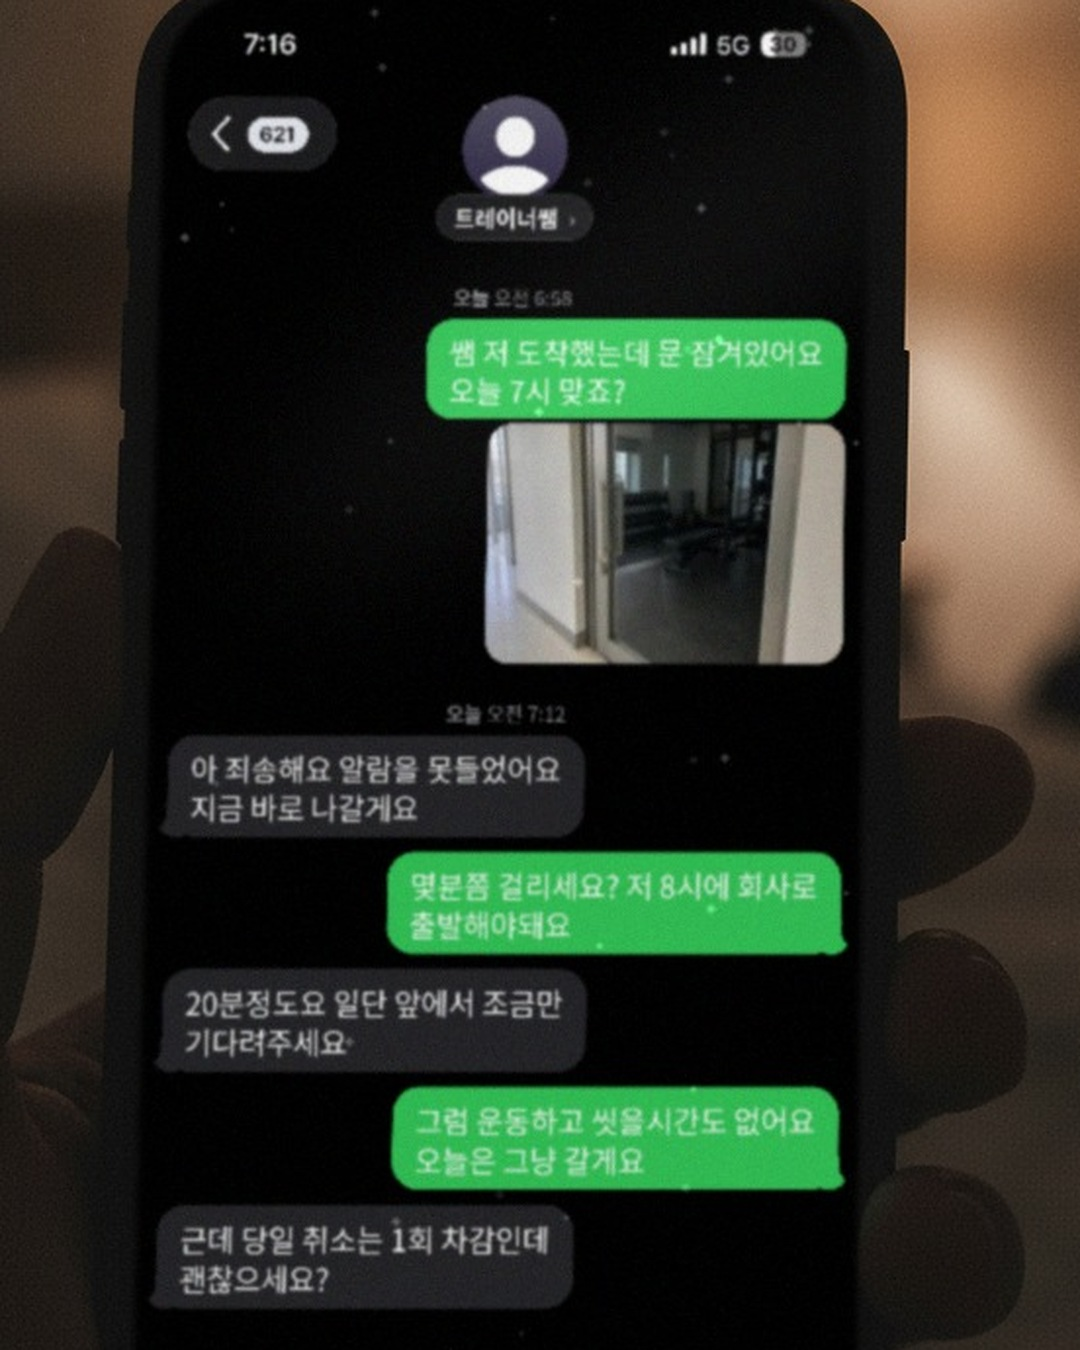
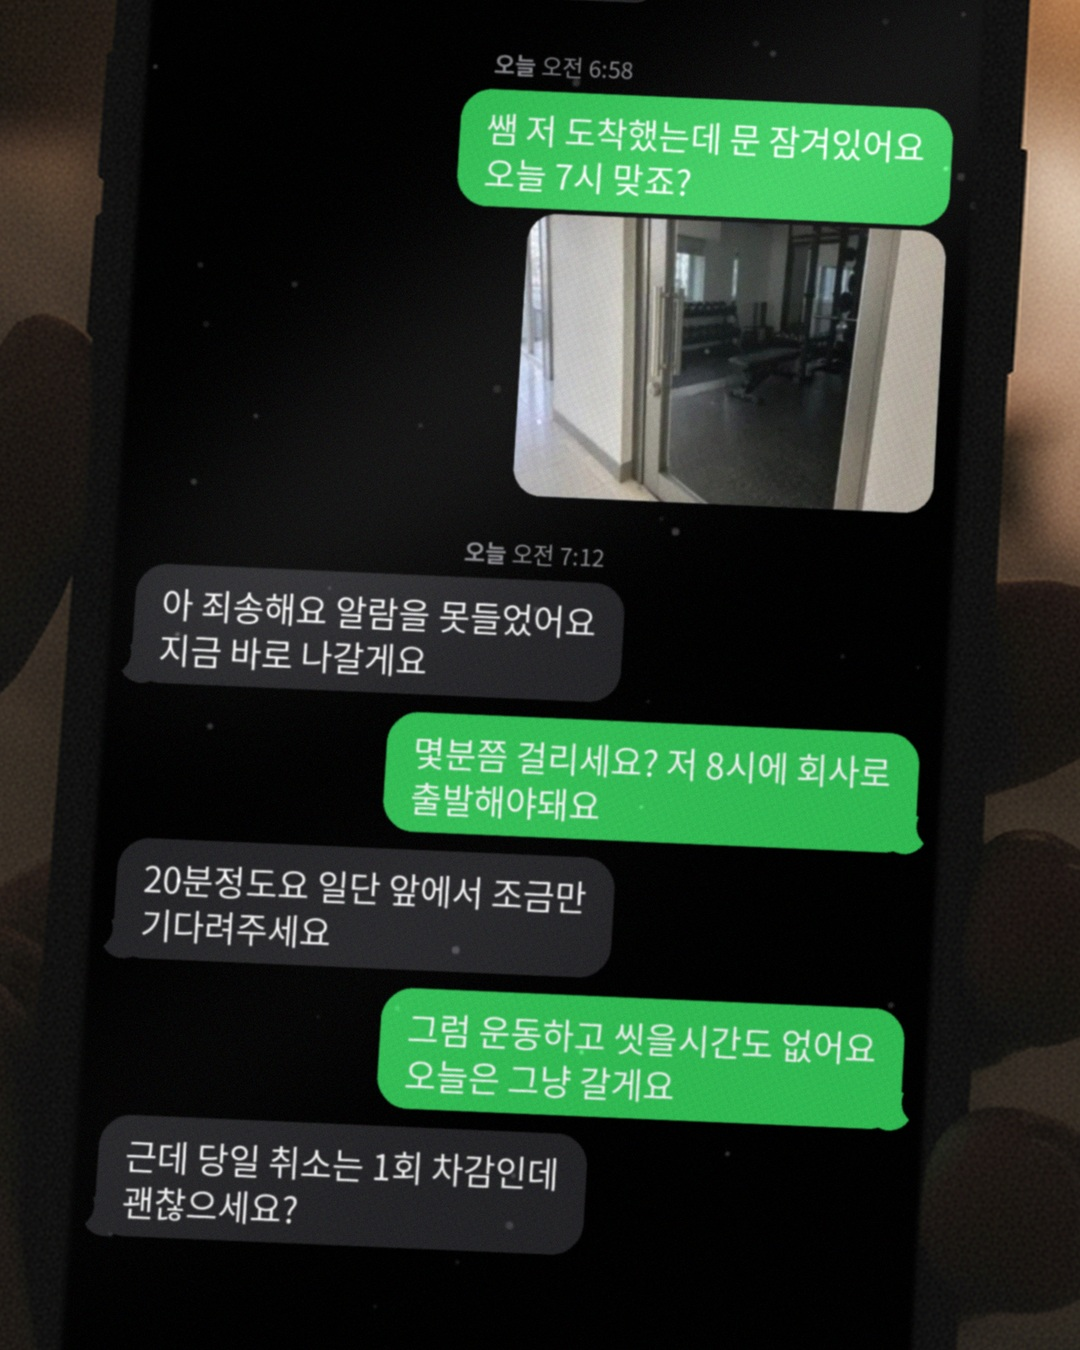
트레이너 문자: 고해상도 합성·확대본
Claude-Session: https://claude.ai/code/session_01FGsw5RJiPx86zKSPGHk4rD

diff --git a/jobs/2026-11-22-kakao-trainer/composite_hd.py b/jobs/2026-11-22-kakao-trainer/composite_hd.py
@@ -1,0 +1,45 @@
+"""고해상도 합성: Gemini 사진을 3배로 키운 뒤 문자 화면 렌더를 원해상도 그대로 원근 변환해 넣는다(글씨 선명).
+그다음 대화 부분만 4:5로 크게 자른다(참고: wamoyaaa 확대 수준)."""
+import numpy as np, cv2
+from PIL import Image, ImageDraw
+from composite import Hm  # 같은 기준점으로 구한 변환(원본 사진 좌표)
+
+S = 3
+R = np.array(Image.open("out/sms_screen.png").convert("RGB")).astype(np.float32)
+Gs = Image.open("src/gemini_sms_phone.png").convert("RGB")
+G = np.array(Gs.resize((Gs.width * S, Gs.height * S), Image.LANCZOS)).astype(np.float32)
+h, w = G.shape[:2]
+H3 = np.diag([S, S, 1]).astype(np.float64) @ Hm
+warp = cv2.warpPerspective(R, H3, (w, h), flags=cv2.INTER_LINEAR)
+m = Image.new("L", (R.shape[1], R.shape[0]), 0)
+ImageDraw.Draw(m).rounded_rectangle((6, 6, R.shape[1] - 7, R.shape[0] - 7), 165, fill=255)
+sm = cv2.warpPerspective(np.array(m), H3, (w, h)).astype(np.float32) / 255
+sm = cv2.GaussianBlur(sm, (0, 0), 4)[..., None]
+rng = np.random.default_rng(4)
+warp = cv2.GaussianBlur(warp, (0, 0), 1.1) * 0.93
+# 화면 픽셀 결(아주 옅은 모아레) + 노이즈
+yy, xx = np.mgrid[0:h, 0:w].astype(np.float32)
+moire = (np.sin((xx * 0.9 + yy * 0.35) * 0.55) * np.sin((yy * 0.9 - xx * 0.3) * 0.5)) * 4
+warp += moire[..., None] * (warp.mean(2, keepdims=True) / 255 + 0.15)
+warp += rng.normal(0, 4, warp.shape)
+# 먼지·반사
+dust = np.zeros((h, w), np.float32)
+for _ in range(70):
+    cx, cy = rng.integers(240 * S, 620 * S), rng.integers(200 * S, 990 * S)
+    cv2.circle(dust, (int(cx), int(cy)), int(rng.integers(2, 6)), float(rng.uniform(20, 60)), -1)
+dust = cv2.GaussianBlur(dust, (0, 0), 1.5)
+glare = np.zeros((h, w), np.float32)
+cv2.ellipse(glare, (500 * S, 420 * S), (320 * S, 55 * S), -38, 0, 360, 30, -1)
+cv2.ellipse(glare, (330 * S, 760 * S), (200 * S, 30 * S), -38, 0, 360, 14, -1)
+dust += cv2.GaussianBlur(glare, (0, 0), 40 * S)
+out = G * (1 - sm) + (warp + dust[..., None]) * sm
+out = np.clip(out, 0, 255).astype(np.uint8)
+# 대화 부분 4:5 크게 + 살짝 기울임(손으로 든 느낌)
+big = Image.fromarray(out)
+cx, cy = 432 * S, 590 * S
+big = big.rotate(-2.5, resample=Image.BICUBIC, center=(cx, cy))
+cw = 470 * S; ch = int(cw * 1.25)
+x0 = cx - cw // 2; y0 = 318 * S
+crop = big.crop((x0, y0, x0 + cw, y0 + ch)).resize((1080, 1350), Image.LANCZOS)
+crop.save("out/01_phone_zoom.jpg", quality=94)
+print("bottom(orig)", (y0 + ch) / S)
